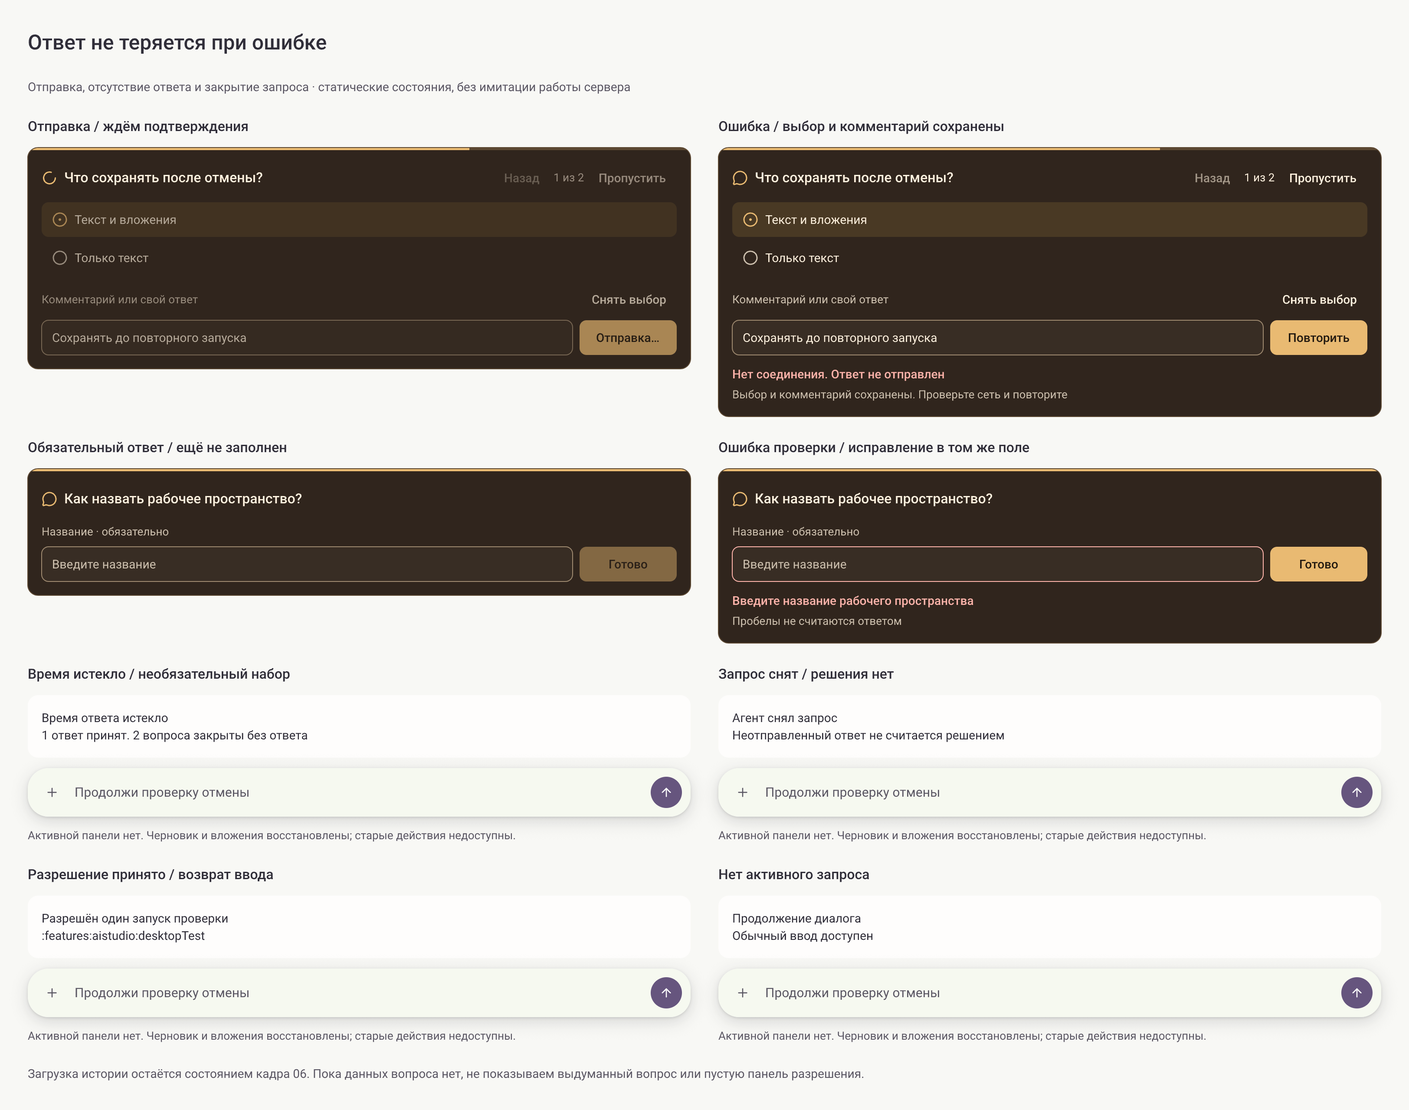
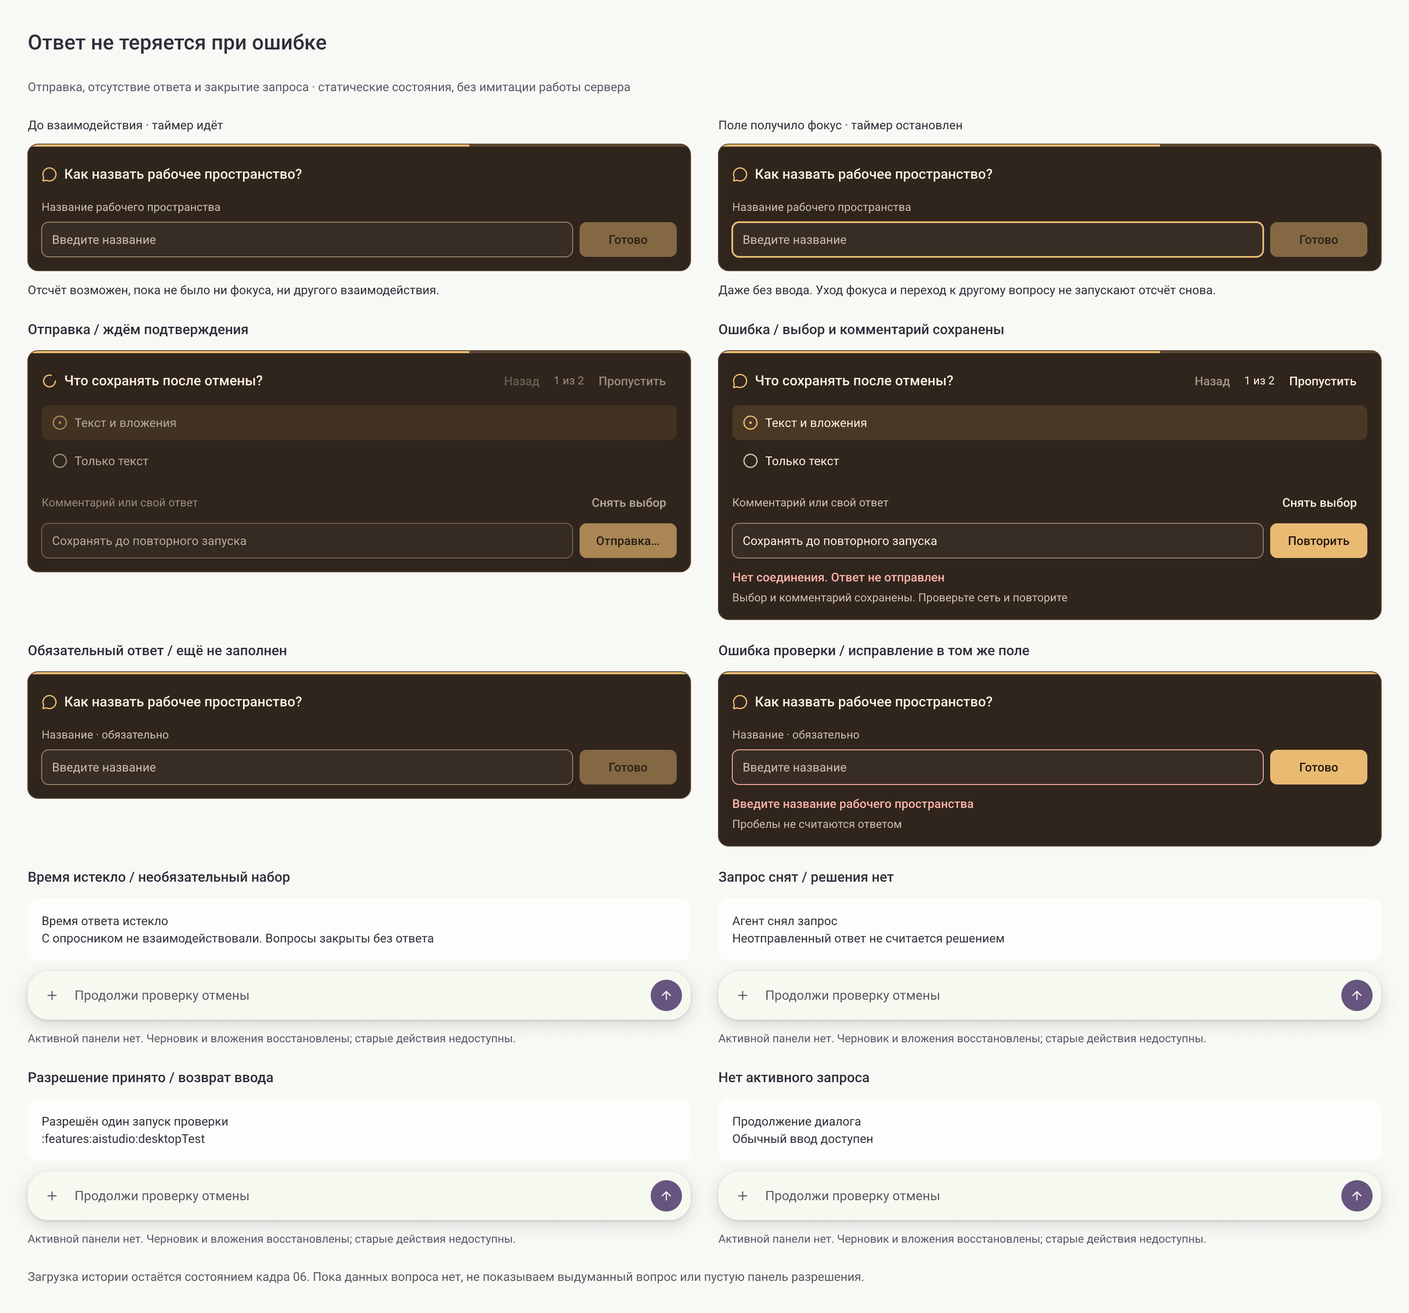
Define questionnaire timer stop on first interaction

diff --git a/plans/aurora-decision-panel.md b/plans/aurora-decision-panel.md
@@ -79,13 +79,15 @@
 
 При ошибке остаются вопрос, выбранные варианты и текст; сообщение сообщает, что ответ не отправлен, и предлагает адресный повтор. Результат не объявляется успешным до подтверждения. Снятый или уже разрешённый запрос теряет активные действия; результат связывается с id запроса и хода.
 
-### Таймауты из PR #513
+### Таймауты на основе PR #513 с уточнениями оператора
 
-- Автоматическое время только для необязательного набора: 60 секунд на вопрос с выбором или 120 на текст, плюс чтение заголовка, описания и вариантов по 20 символов/с, максимум 600 секунд на набор. Начало после публикации.
+- Автоматическое время только для необязательного набора: 60 секунд на вопрос с выбором или 120 на текст, плюс чтение заголовка, описания и вариантов по 20 символов/с, максимум 600 секунд на набор. Начало после публикации; отсчёт действует только до первого взаимодействия.
+- Любое взаимодействие с опросником останавливает таймер всего набора, даже без изменения ответа: получение фокуса панелью или её контролом, наведение, нажатие/касание, ввод, выбор, выделение текста, прокрутка, навигация или взаимодействие средствами доступности. Не требуется ждать ввода первого символа или отправки.
+- Остановка окончательна для текущего набора: потеря фокуса, уход указателя, закрытие IME, переключение вопроса, возвращение в чат и восстановление сессии не возобновляют отсчёт. Оставшиеся вопросы ждут ответа, допустимого пропуска или внешнего снятия. Новый набор имеет собственное состояние взаимодействия.
 - Наличие обязательного вопроса, Confirm или `isImportant` отключает таймаут всего набора. Для строгих разрешений автоматическое согласие невозможно.
-- По истечении сохраняются принятые ответы; неотвеченные ids возвращаются как `timedOut`. Черновик не выдаётся за отправленный ответ. Внешняя отмена снимает запросы.
+- Истечь может только набор, с которым ещё не взаимодействовали; его неотвеченные ids возвращаются как `timedOut`. Введённый или отправленный пользователем ответ уже означает остановку таймера, поэтому сценарий «ответил на первый вопрос — остальные закрылись по времени» больше не применяется. Черновик не выдаётся за отправленный ответ. Внешняя отмена снимает запросы независимо от остановки таймера.
 - В макете показать отдельный пример «Время ответа истекло» с пояснением, что неотвеченные вопросы закрыты без решения. Возвращается обычный ввод. Не добавлять автоматическую повторную постановку того же вопроса.
-- Верхняя полоса таймера сохраняется по прямому указанию оператора. Для набора с deadline её длина отражает оставшуюся долю общего времени; переходы между вопросами не перезапускают срок. Остаток времени доступен экранной читалке без ежесекундных объявлений. Видимый текстовый футер удалён по последующему уточнению оператора.
+- Верхняя полоса таймера сохраняется по прямому указанию оператора. До взаимодействия её длина отражает оставшуюся долю общего времени. При первом взаимодействии полоса замирает на текущей длине, без сброса, заполнения до конца или последующего запуска. Экранная читалка получает состояние «Таймер остановлен», без ежесекундных объявлений. Видимый текстовый футер не возвращается.
 - Для обязательных/важных вопросов, Confirm и строгих разрешений верхняя полоса полная и неподвижная. Видимой подписи «Без таймера» нет; отсутствие срока хранится в доступном описании полосы. В состоянии отправки/ошибки полоса не изображает прогресс отправки. При неизвестном сроке не показывать выдуманное время.
 
 ## Различия платформ и доступность
@@ -168,3 +170,11 @@
 Выполнено: title перенесён в шапку рядом с иконкой; самостоятельная строка title в теле удалена, значения сохранены во всех вариантах. Subtitle скрыт в примере запуска проверки, где контекст уже присутствует в подробностях; в варианте исправления сокращён до «Отмена запроса и черновик», в multichoice — «Выберите 1–2 варианта». Пустые subtitle и пустое содержимое формы не оставляют зазор. Общий футер удалён из источника компонента; ошибки остаются адресными, занятость обозначена кнопкой отправки. Область разрешения в подробностях сохранена.
 
 Проверены 27 экземпляров: нет непредусмотренного clipping, старой общей строки внимания или футера. Просмотрены desktop, Android, свободный ответ без subtitle, ошибка и 200%. Панель запуска проверки сокращена с 326 до 229, Android-разрешение — с 450 до 369 логических единиц; нижняя привязка пересчитана с полем 16. Превью обновлены; [пример из запроса оператора](../previews/aurora-decision-panel/YroEH.png).
+
+## Остановка таймера при взаимодействии
+
+Прямое уточнение оператора: любое взаимодействие с опросником, даже фокус, останавливает таймер. Правило одинаково для desktop и Android: на desktop достаточно наведения или клавиатурного фокуса, на Android — касания или фокуса; ввод не требуется. Остановка действует на весь текущий набор и сохраняется при уходе фокуса, смене вопроса и восстановлении сессии. Полоса замирает на достигнутой длине, футер отсутствует.
+
+В лист 39 добавлена пара `LIFuy`: до взаимодействия (`hBy6S`) и после фокуса пустого поля (`AN7Tj`). Исправлен результат истечения срока: он возможен только для нетронутого набора. Примечания листа 40 и контракт компонента обновлены. [Превью двух состояний](../previews/aurora-decision-panel/LIFuy.png).
+
+В реализации необходимо проверить: фокус без ввода; наведение; касание, выбор и прокрутку; уход фокуса; переход вперёд/назад; восстановление сессии. После первого взаимодействия позднее событие таймаута игнорируется. Внешнее снятие запроса остаётся действующим. Здесь проверены статические состояния макета; работа обработчиков в Compose не входит в эту задачу.

diff --git a/plans/aurora-chat-behavior.md b/plans/aurora-chat-behavior.md
@@ -144,7 +144,8 @@ Claude Code, Sonnet 4.5, «Среднее», проценты и квота за
 - Выбор + комментарий и собственный текст доступны при `isFreeTextAllowed`. Поле имеет постоянную подпись; «Снять выбор» переводит введённый текст в собственный ответ. Если источник принимает только предложенные варианты, поле не показывается. Confirm с комментарием отправляет выбранное Да/Нет и текст через «Далее / Готово».
 - Строгое разрешение показывает действие, цель, аргументы, контекст и область решения. «Разрешить один раз» / «Отклонить» отправляют решение напрямую. Дополнительного radio-выбора, свободного текста и общего подтверждения нет. Нажатие Enter на явно сфокусированной кнопке выполняет её действие; общий Enter не выдаёт разрешения.
 - Полоса таймера не является индикатором отправки. Для необязательного набора бюджет из PR: 60 секунд на выбор или 120 на текст плюс чтение по 20 символов/с, до 600 секунд; начало после публикации. Навигация не перезапускает отсчёт. Обязательный/важный вопрос или Confirm отключает таймаут всего набора; строгие разрешения также без таймера. В этих случаях полоса полная и неподвижная. Общего текстового футера, в том числе «Без таймера», нет; состояние срока сохраняется в доступном описании полосы.
-- Истечение срока закрывает неотвеченные вопросы без решения и сохраняет принятые ответы. Снятие запроса также не отправляет черновик. В истории остаётся неинтерактивный результат, обычный ввод восстанавливается. Истечение времени никогда не означает разрешение.
+- По последующему уточнению оператора любое взаимодействие с опросником, включая получение фокуса, наведение, нажатие/касание, ввод, выбор, выделение текста, прокрутку и навигацию, окончательно останавливает таймер всего набора. Полоса замирает на текущей длине; доступное состояние — «Таймер остановлен». Потеря фокуса, уход указателя, закрытие клавиатуры, переход между вопросами и восстановление сессии не возобновляют отсчёт. Таймаут возможен только до первого взаимодействия; после него оставшиеся вопросы не закрываются автоматически. Футер не возвращается.
+- Истечение срока закрывает без решения только набор, с которым ещё не взаимодействовали. После первого взаимодействия оставшиеся вопросы не могут истечь. Снятие запроса не отправляет черновик. В истории остаётся неинтерактивный результат, обычный ввод восстанавливается. Истечение времени никогда не означает разрешение.
 - При ограниченной высоте прокручивается содержимое вопроса, поле и действия остаются доступны над клавиатурой. Системный Back сначала скрывает IME. Сохраняются вопрос, выбор, комментарий, фокус и черновик обычного сообщения.
 
 В `aurora-new-chat.pen` обновлены кадры 09, 20, 22, 25, 26, 30, 31 и 33; листы 38–40 показывают типы, состояния и адаптацию. Таймеры, сеть, IME и доступность здесь описаны статическими примерами, а не проверены в работающем приложении.
